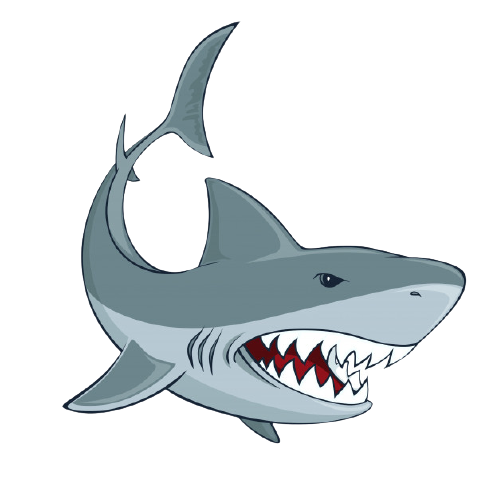
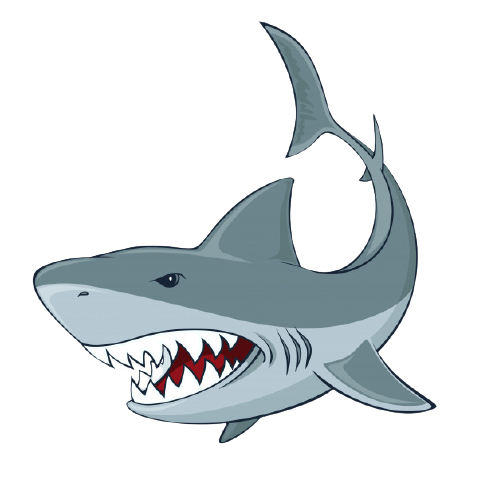
Rotate objects (#10)
* Rotate shark and diver on move

* Fix the other grid problem

Changed region(s): [[0.0601, 0.0301, 0.9319, 0.9018]]

diff --git a/src/app/www/css/sass.min.css b/src/app/www/css/sass.min.css
@@ -1,1 +1,1 @@
-.ms-Fabric{height:98vh}.ms-Fabric div{height:100%}.ms-Fabric .ms-Dialog-main{height:auto}.ms-Fabric .sand{height:20px;background-image:url("../assets/sand.png");background-size:contain;background-position:top}.modal-grid{display:grid;grid-template-columns:repeat(3, 1fr);grid-template-rows:200px 150px;padding:20px;gap:10px}.modal-grid .modal-element div{display:flex;justify-content:center;align-items:center}.modal-grid .modal-element--play{grid-column:3 / span 1;grid-row:2 / span 1}.modal-grid .modal-element--learn{grid-column:1 / span 1;grid-row:2 / span 1}.modal-grid .modal-element--text{grid-column:1 / span 3;grid-row:1 / span 1;justify-self:stretch;text-align:center}.modal-grid .modal-element--icon{grid-column:2 / span 1;grid-row:2 / span 1}.modal-grid .modal-element--icon img{width:150px}#map-gameOver-biteModal{position:fixed}#map-gameOver-chestModal{position:fixed}.all-grid{background-image:url("../assets/ocean.png");background-repeat:no-repeat;background-position:center;background-size:cover}.all-grid .single-grid{background-repeat:no-repeat;background-position:center;background-size:contain}
+.ms-Fabric{height:98vh}.ms-Fabric div{height:100%}.ms-Fabric .ms-Dialog-main{height:auto}.modal-grid{display:grid;grid-template-columns:repeat(3, 1fr);grid-template-rows:200px 150px;padding:20px;gap:10px}.modal-grid .modal-element div{display:flex;justify-content:center;align-items:center}.modal-grid .modal-element--play{grid-column:3 / span 1;grid-row:2 / span 1}.modal-grid .modal-element--learn{grid-column:1 / span 1;grid-row:2 / span 1}.modal-grid .modal-element--text{grid-column:1 / span 3;grid-row:1 / span 1;justify-self:stretch;text-align:center}.modal-grid .modal-element--icon{grid-column:2 / span 1;grid-row:2 / span 1}.modal-grid .modal-element--icon img{width:150px}#map-gameOver-biteModal{position:fixed}#map-gameOver-chestModal{position:fixed}.all-grid{background-image:url("../assets/ocean.png");background-repeat:no-repeat;background-position:center;background-size:cover}.all-grid .single-grid{background-repeat:no-repeat;background-position:center;background-size:contain}.all-grid .single-grid.rotated{transform:rotateY(180deg)}

diff --git a/src/app/styles/partials/_grid.scss b/src/app/styles/partials/_grid.scss
@@ -7,6 +7,8 @@
     background-repeat: no-repeat;
     background-position: center;
     background-size: contain;
-    
+    &.rotated {
+      transform: rotateY(180deg);
+    }
   }
 }
